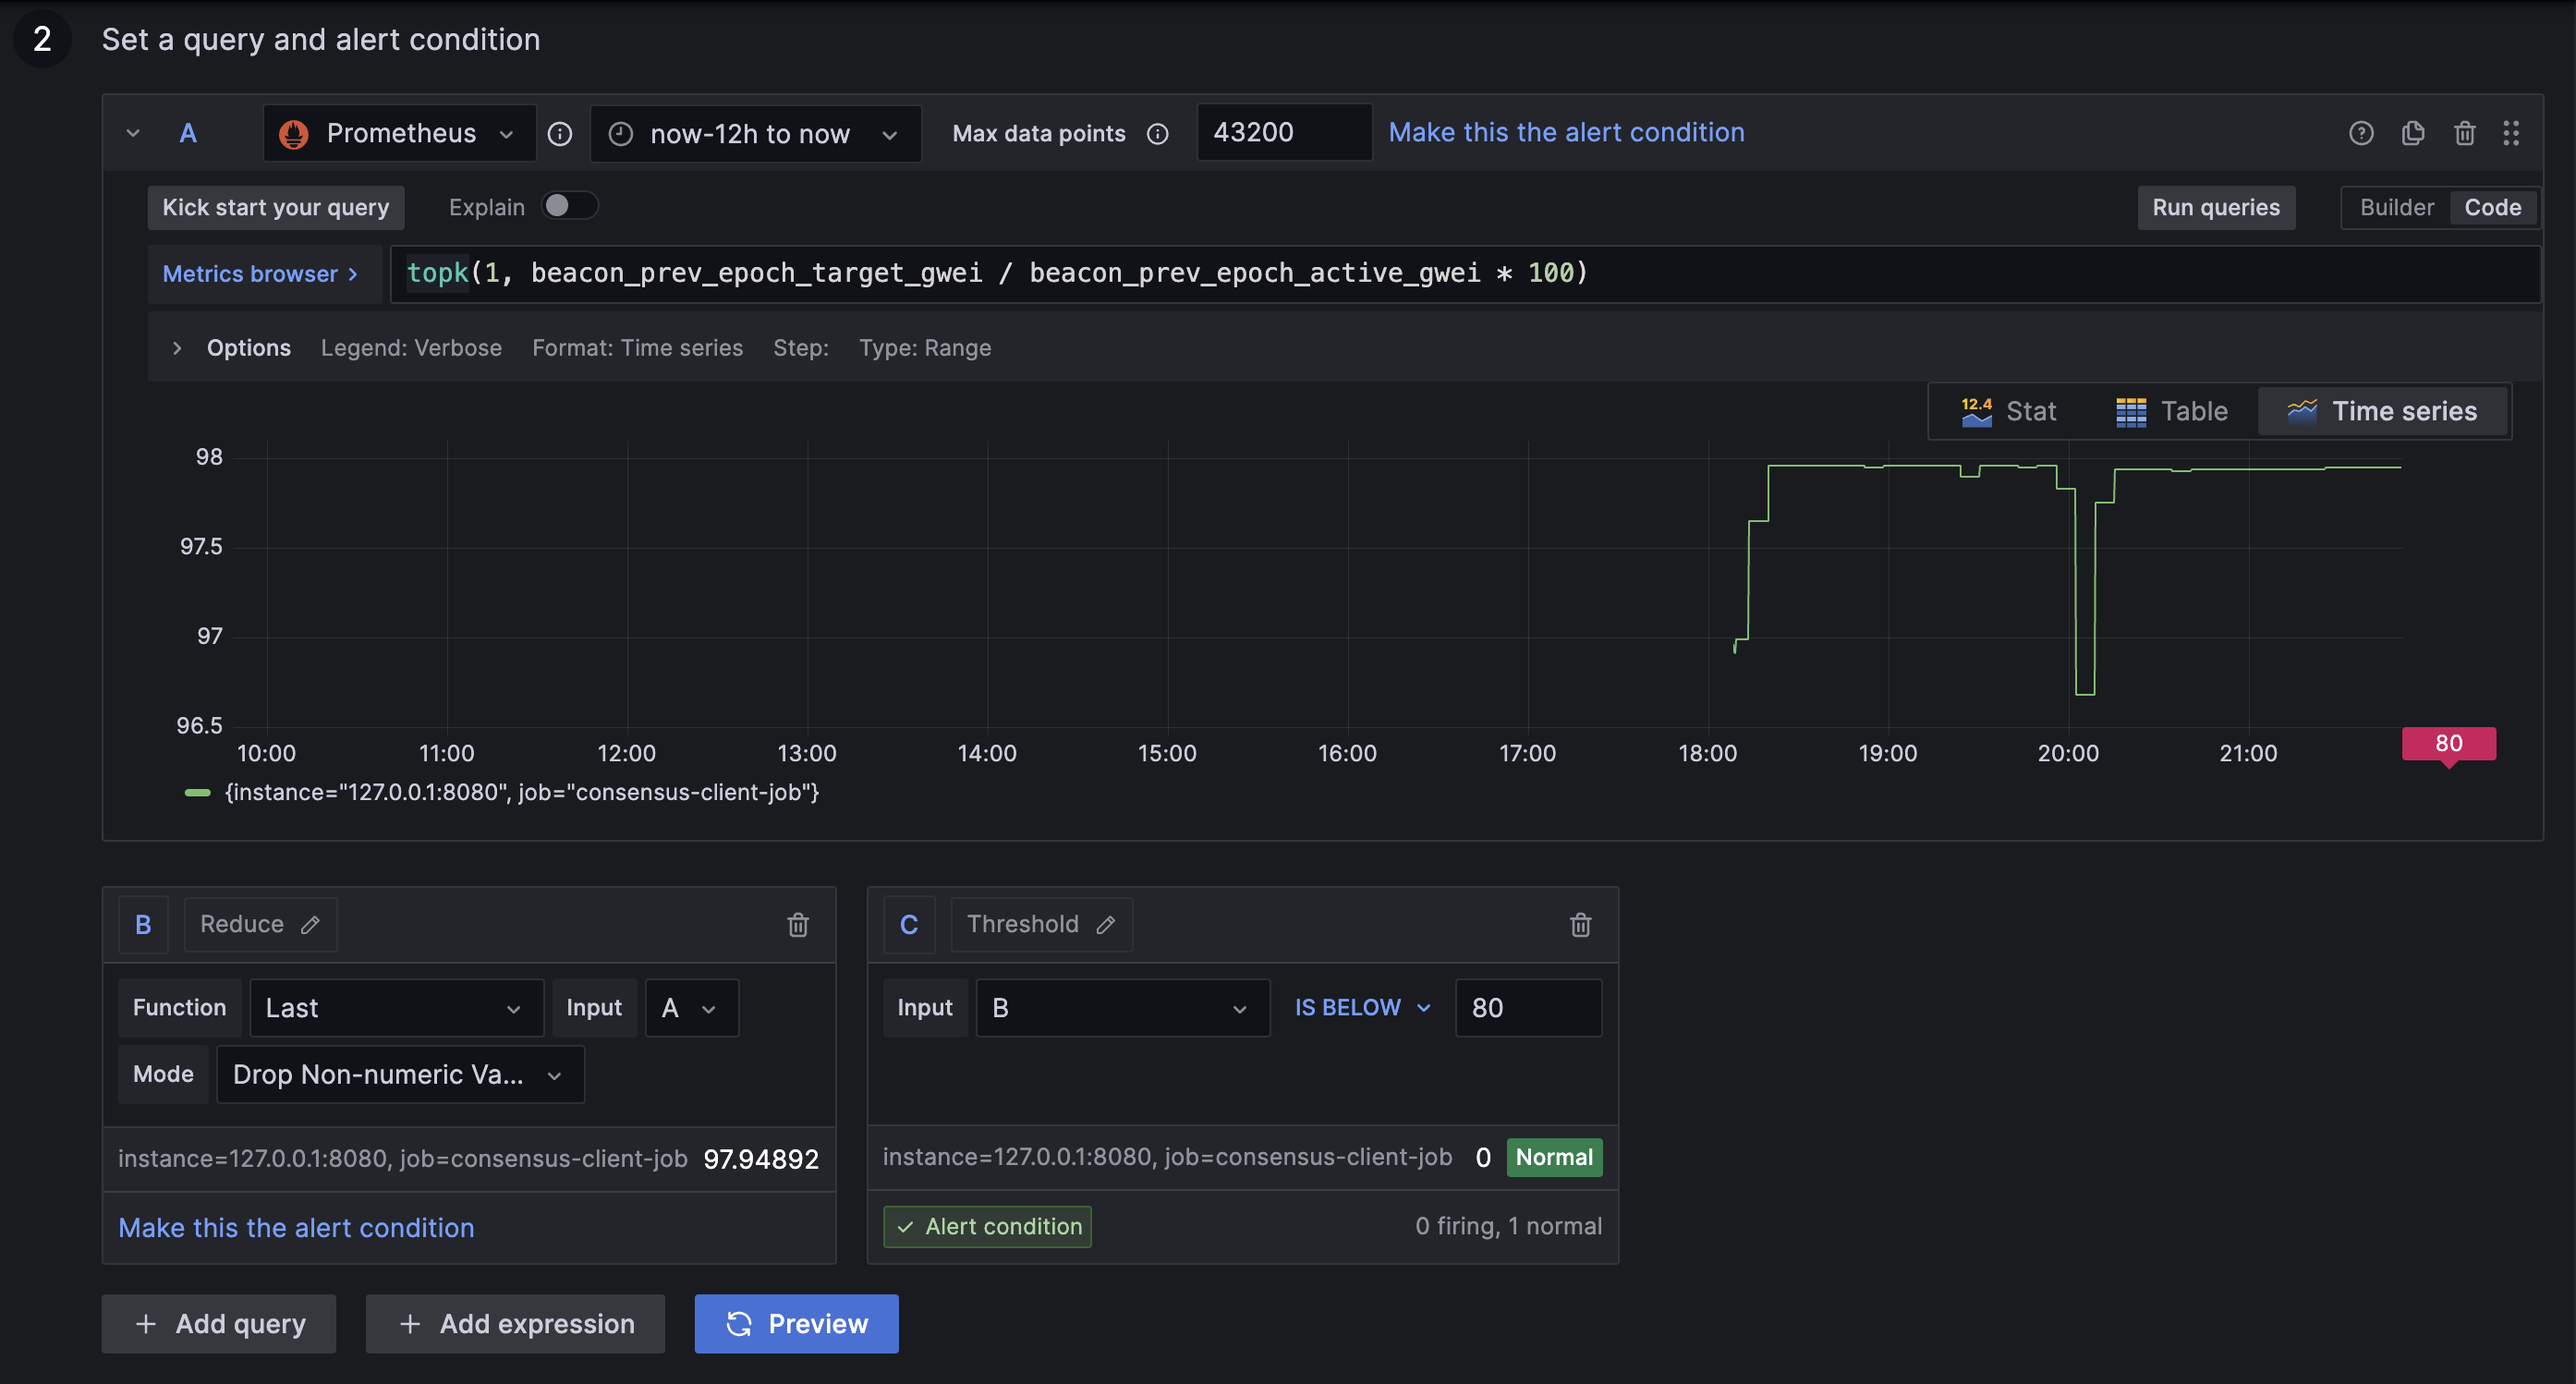
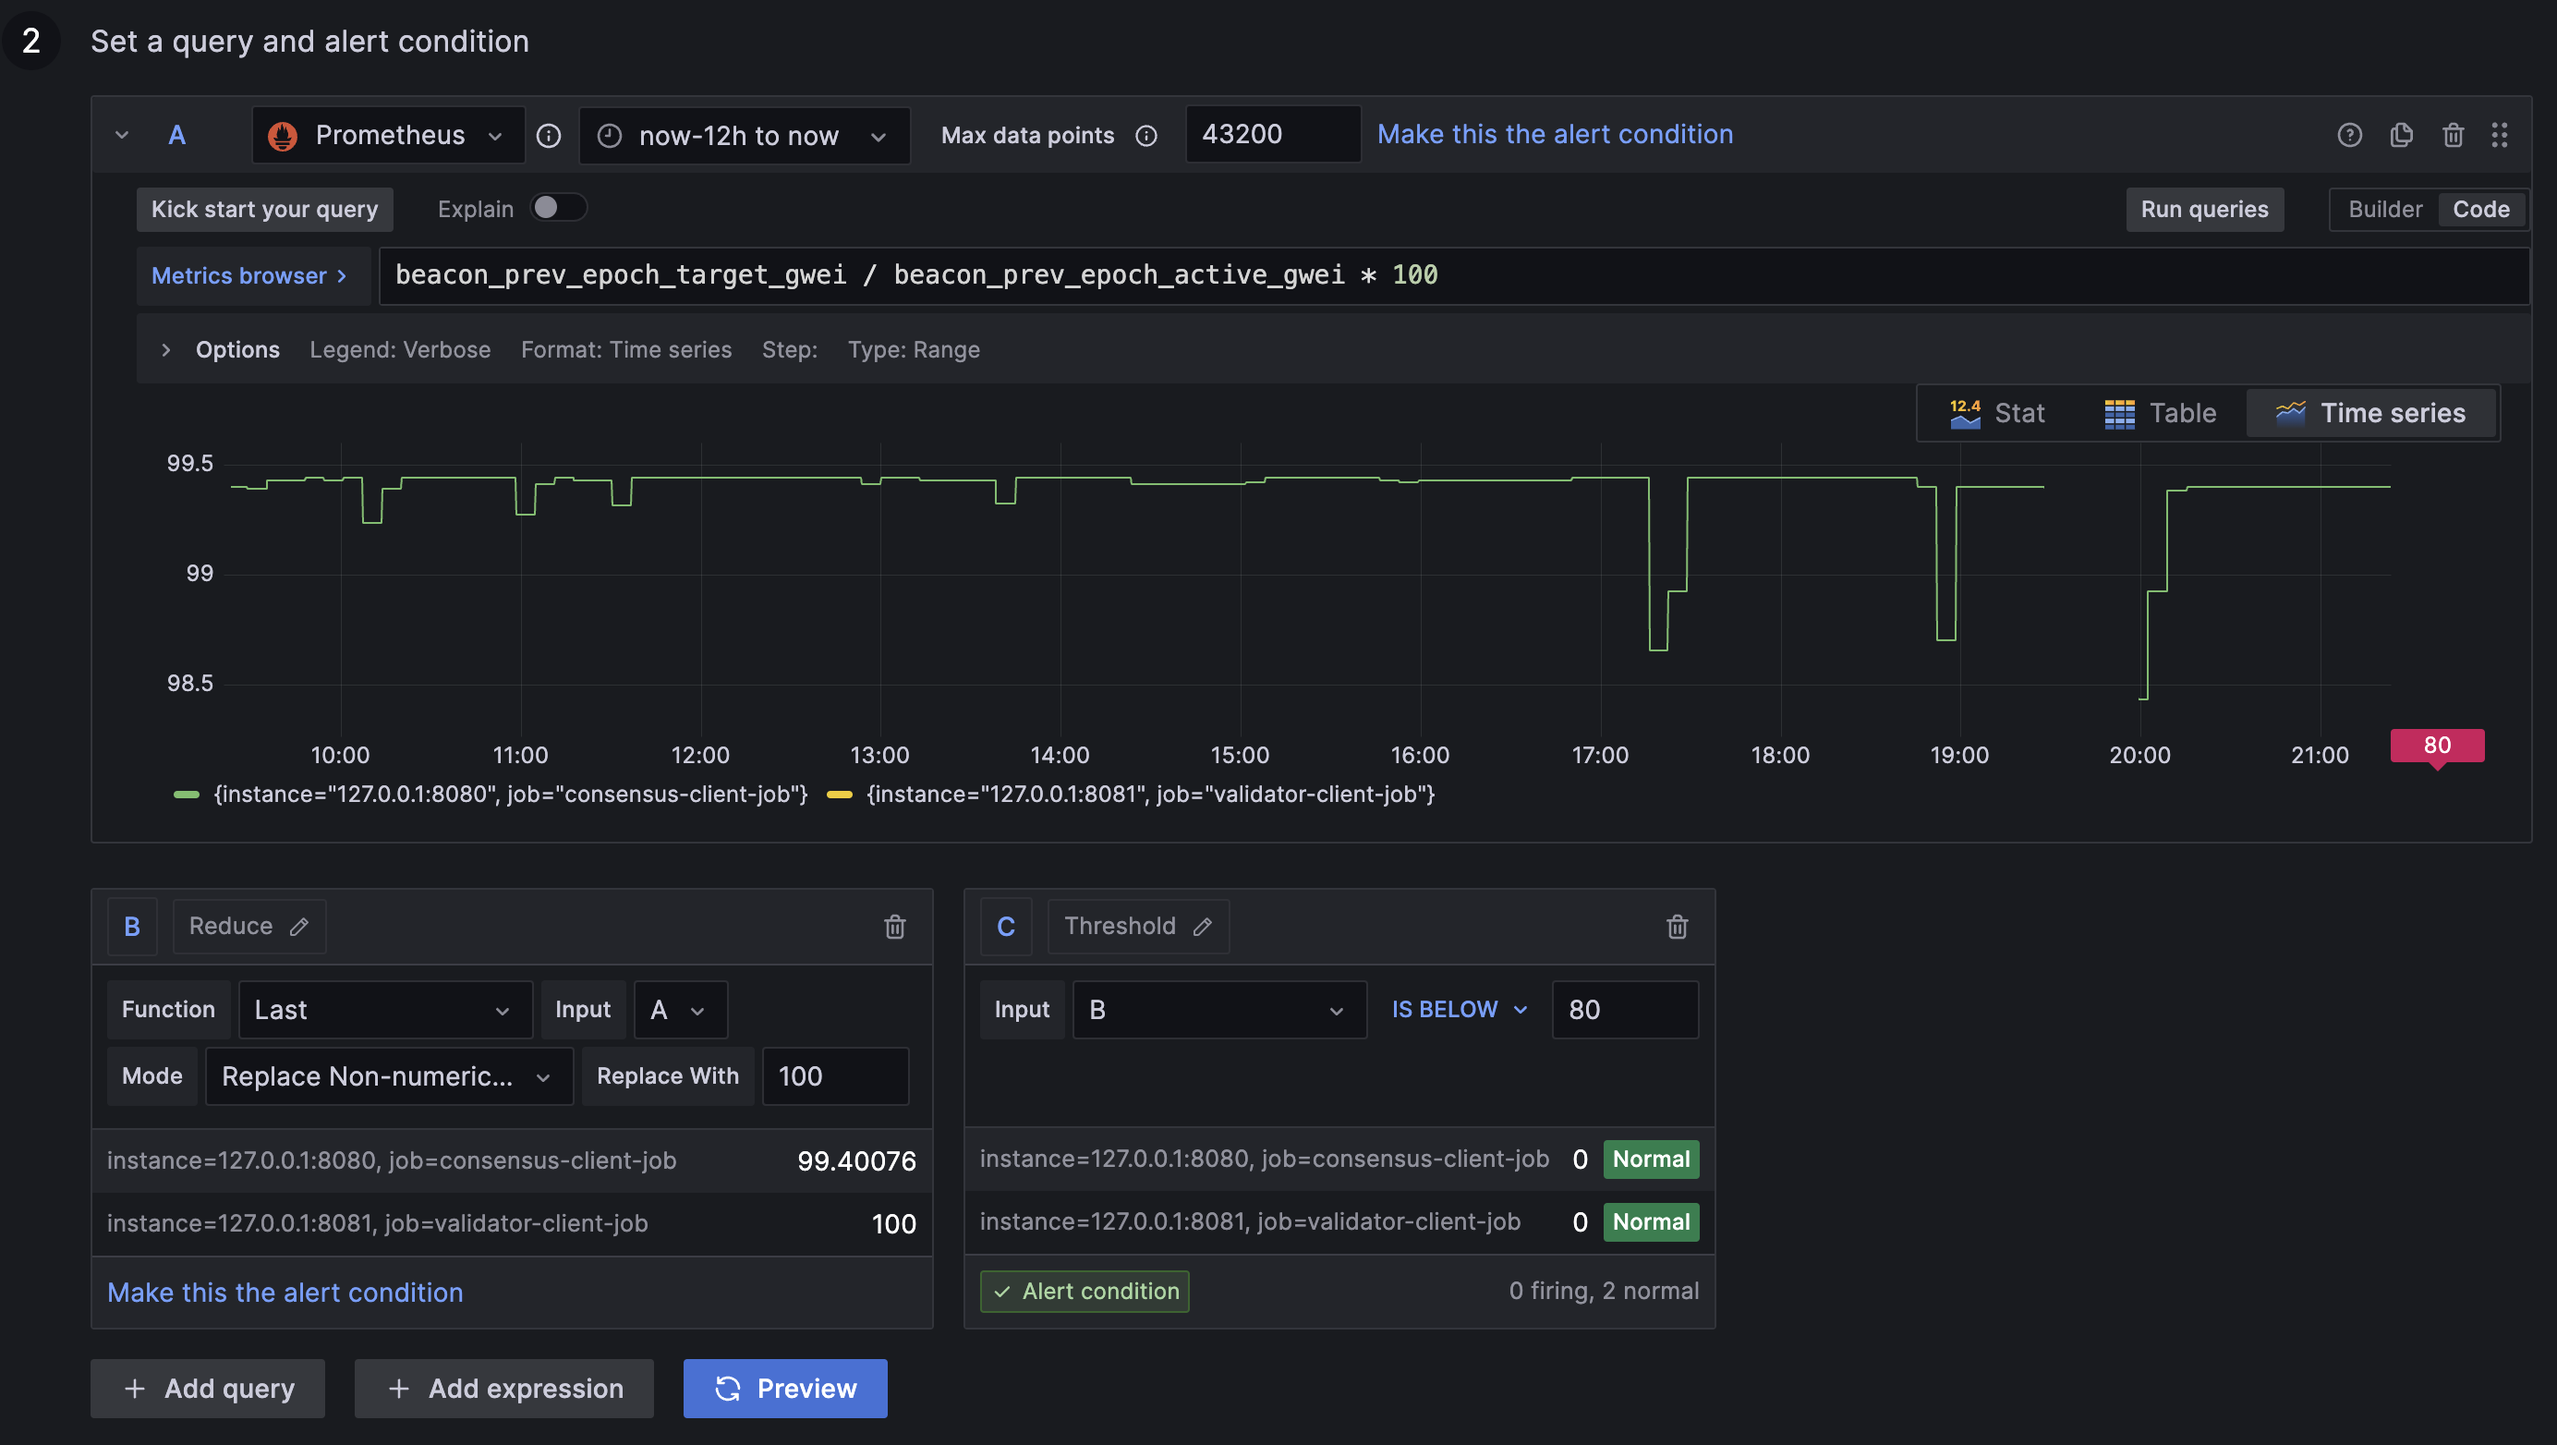
update participation rate alert

diff --git a/8-notifications/01-telegram-alerts.md b/8-notifications/01-telegram-alerts.md
@@ -172,7 +172,7 @@ probe_duration_seconds{job="google-ping-job"}
 ![Participation Rate below 80% Metric](/img/grafana-alerts-12.png)
 
 ```text
-topk(1, beacon_prev_epoch_target_gwei / beacon_prev_epoch_active_gwei * 100)
+beacon_prev_epoch_target_gwei / beacon_prev_epoch_active_gwei * 100
 ```
 
 ### 8.1.8 Configuring Notfication Intervals
